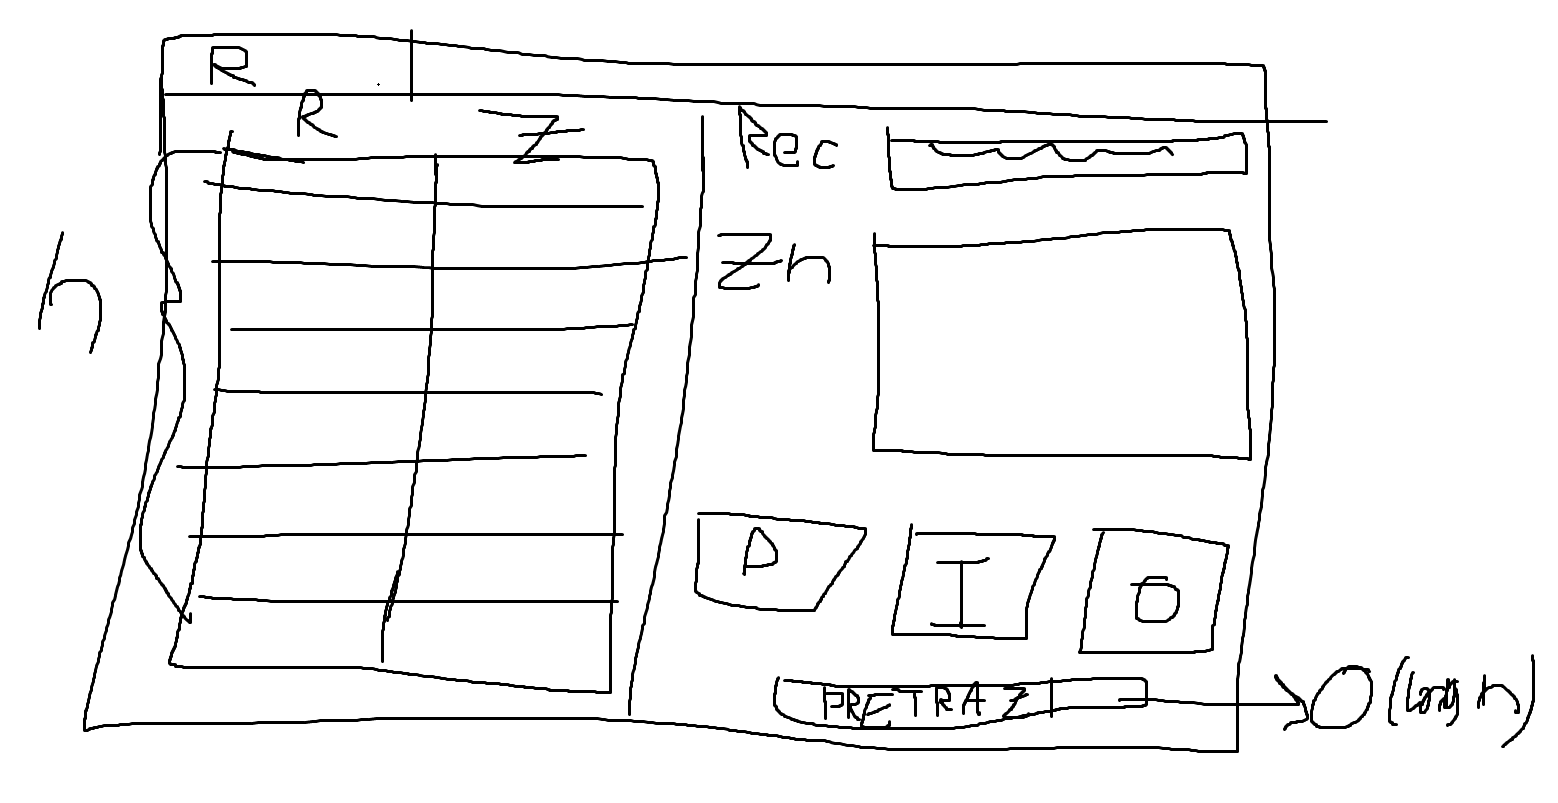
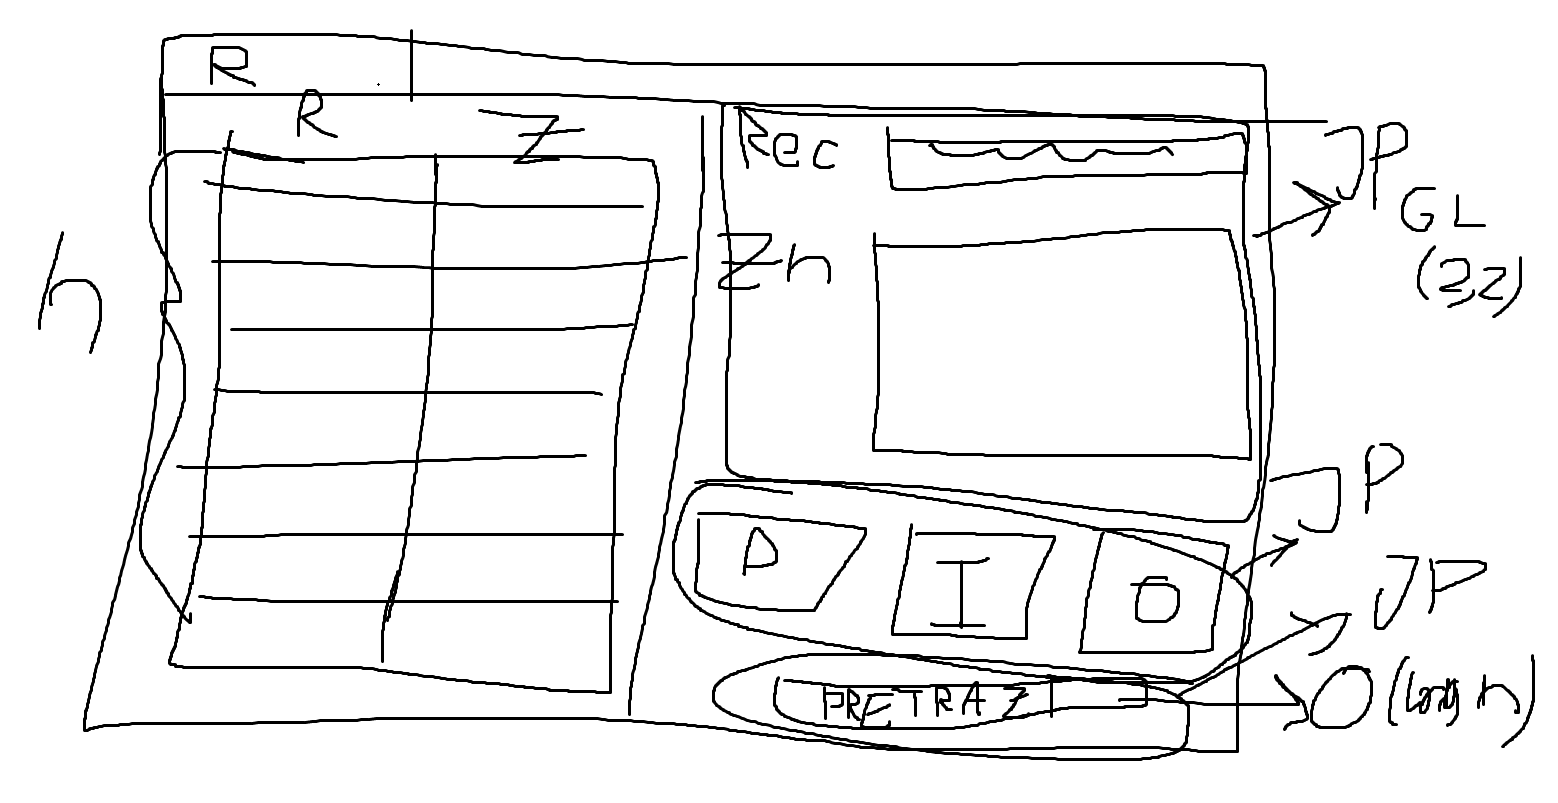
Додавање компоненти у форму и учитавање речника у табелу
Следеће: додати функционалност дугмића за додавање, измену, брисање и претраживање речи

diff --git a/src/gui/Forma.java b/src/gui/Forma.java
@@ -1,26 +1,28 @@
 package gui;
-import java.awt.GridLayout;
+import java.awt.*;
 import java.awt.event.*;
 import java.io.IOException;
 import java.nio.file.*;
 import java.util.List;
 
 import javax.swing.*;
+import javax.swing.table.DefaultTableModel;
 
-import imp.Recnik;
+import imp.*;
 
 @SuppressWarnings("serial")
 public class Forma extends JFrame {
 
 	private Recnik recnik;
+	private DefaultTableModel model;
 	
 	public Forma() {
-		setBounds(700, 300, 700, 500);
+		setBounds(700, 300, 1000, 600);
 		setResizable(false);
 		setTitle("Речник");
 		
-		popuniRecnik();
 		popuniProzor();
+		popuniRecnik();
 		this.addWindowListener(new WindowAdapter() {
 			@Override
 			public void windowClosing(WindowEvent e) {
@@ -34,6 +36,7 @@ public class Forma extends JFrame {
 	private void popuniRecnik() {
 		try {
 			ucitajRecnik();
+			popuniTabelu();
 		} catch (IOException e) {
 			JOptionPane.showMessageDialog(
 	                null,
@@ -46,6 +49,13 @@ public class Forma extends JFrame {
 		
 	}
 
+	private void popuniTabelu() {
+		for(recnik.pocetak(); !recnik.kraj(); recnik.sledeci()) {
+			Element el = recnik.dohvati();
+			model.addRow(new Object[]{el.rec, el.znacenje});
+		}
+	}
+
 	private void ucitajRecnik() throws IOException {
 		List<String> linije = Files.readAllLines(Paths.get("recnik.txt"));
 		recnik = new Recnik(linije);
@@ -54,10 +64,29 @@ public class Forma extends JFrame {
 	private void popuniProzor() {
 		this.setLayout(new GridLayout());
 		JPanel panel1 = new JPanel();
-		JPanel panel2 = new JPanel(new GridLayout());
+		JPanel panel2 = new JPanel(new GridLayout(0, 1));
 		
-		JTable tabela = new JTable()
-		panel1.add();
+		model = new DefaultTableModel(new Object[]{"Реч", "Значење"}, 0);
+        JTable tabela = new JTable(model);
+        JScrollPane scrollPane = new JScrollPane(tabela);
+        panel1.add(scrollPane);
+		
+		JPanel recZnacenje = new JPanel(new GridLayout(2, 2));
+		recZnacenje.add(new JLabel("Реч:"));
+		recZnacenje.add(new JTextField(20));
+		recZnacenje.add(new JLabel("Значење:"));
+		recZnacenje.add(new JTextField(20));
+		
+		panel2.add(recZnacenje);
+		
+		JPanel dugmici = new JPanel(new GridLayout(1, 3));
+		dugmici.add(new JButton("Додај реч"));
+		dugmici.add(new JButton("Измени реч"));
+		dugmici.add(new JButton("Обриши реч"));
+		
+		panel2.add(dugmici);
+		
+		panel2.add(new JButton("Претражи реч"));
 		
 		this.add(panel1);
 		this.add(panel2);

diff --git a/src/imp/Recnik.java b/src/imp/Recnik.java
@@ -1,19 +1,26 @@
 package imp;
 import java.util.*;
 
-class Element{
-	String rec;
-	String znacenje;
-	
-	Element(String rec, String znacenje){
-		this.rec = rec;
-		this.znacenje = znacenje;
-	}
-}
-
 public class Recnik {
 	// SC: O(n)
 	private ArrayList<Element> niz = new ArrayList<>();
+	private int iterator = 0;
+	
+	public void pocetak() {
+		iterator = 0;
+	}
+	
+	public void sledeci() {
+		iterator++;
+	}
+	
+	public boolean kraj() {
+		return iterator == niz.size();
+	}
+	
+	public Element dohvati() {
+		return niz.get(iterator);
+	}
 	
 	public Recnik(List<String> linije) {
 		for(String linija: linije) {

diff --git a/src/imp/Element.java b/src/imp/Element.java
@@ -1,0 +1,11 @@
+package imp;
+
+public class Element {
+	public String rec;
+	public String znacenje;
+	
+	Element(String rec, String znacenje){
+		this.rec = rec;
+		this.znacenje = znacenje;
+	}
+}
